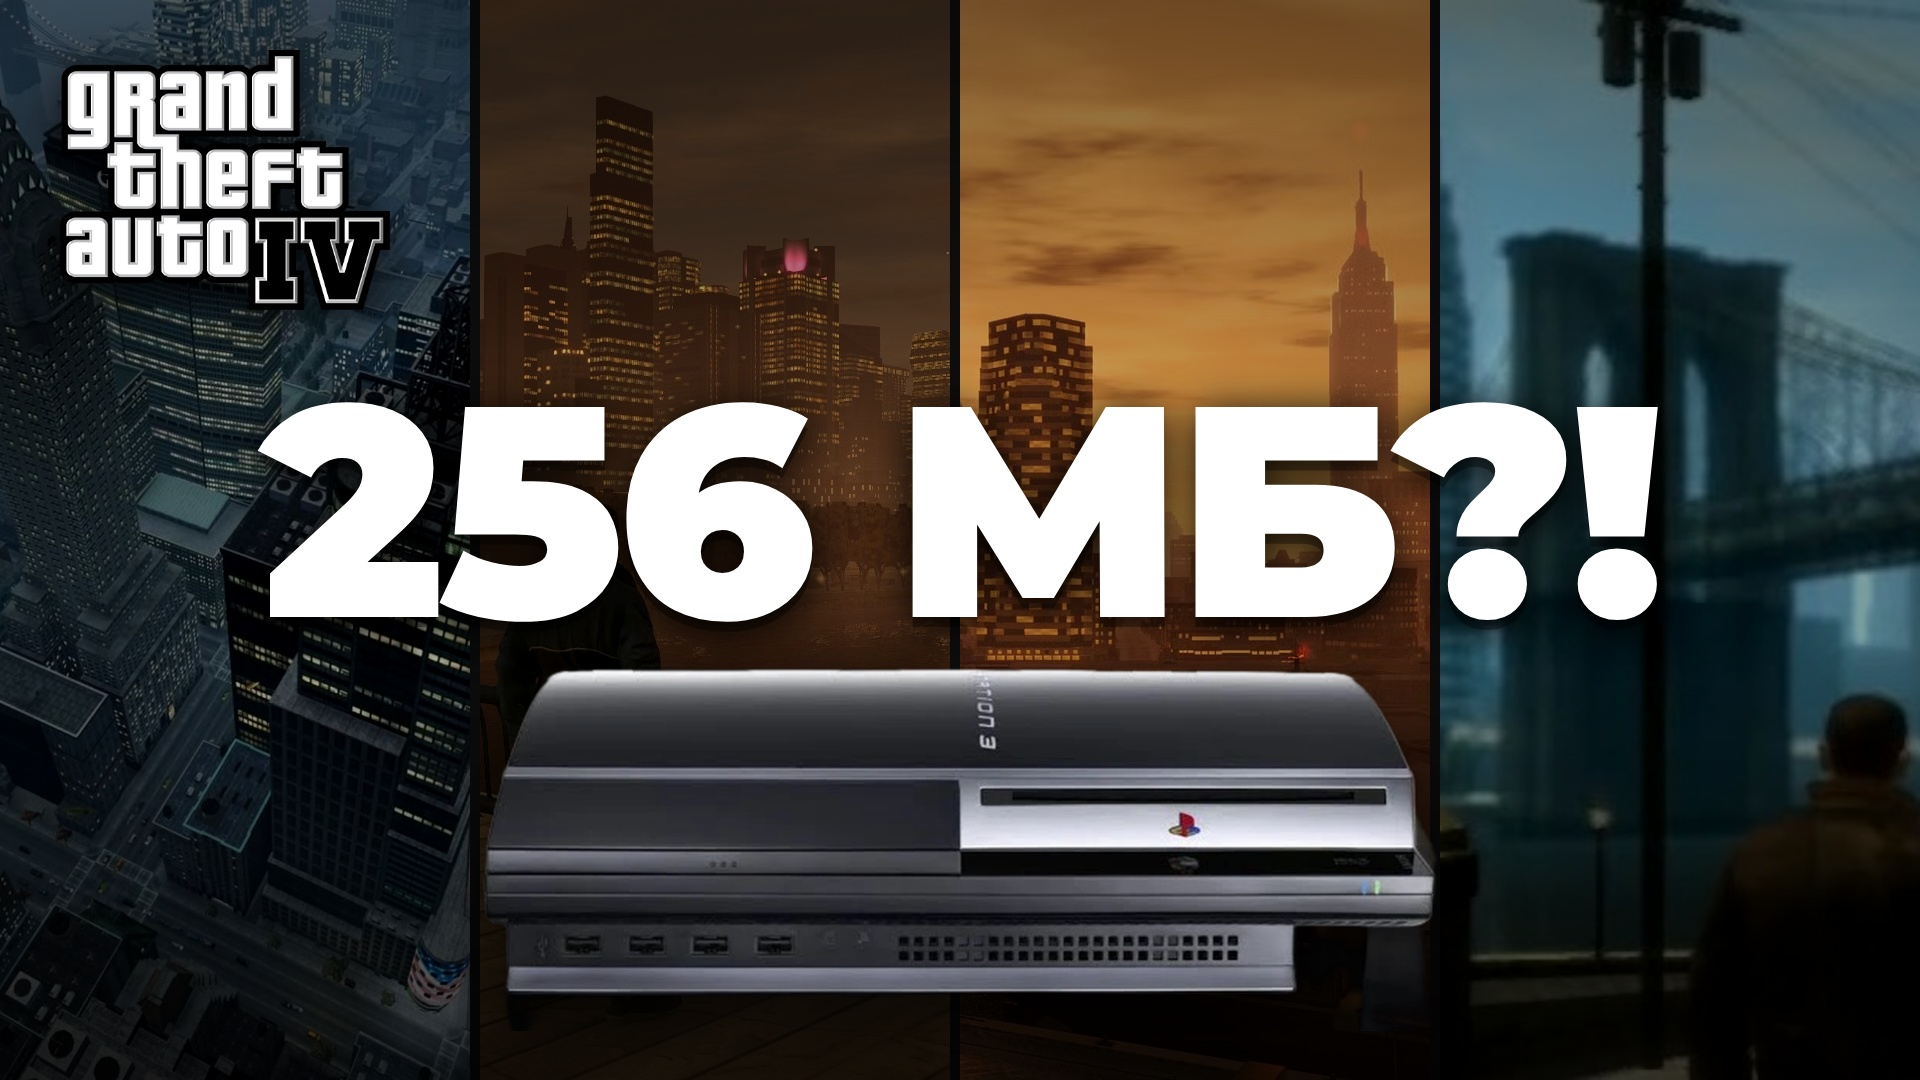
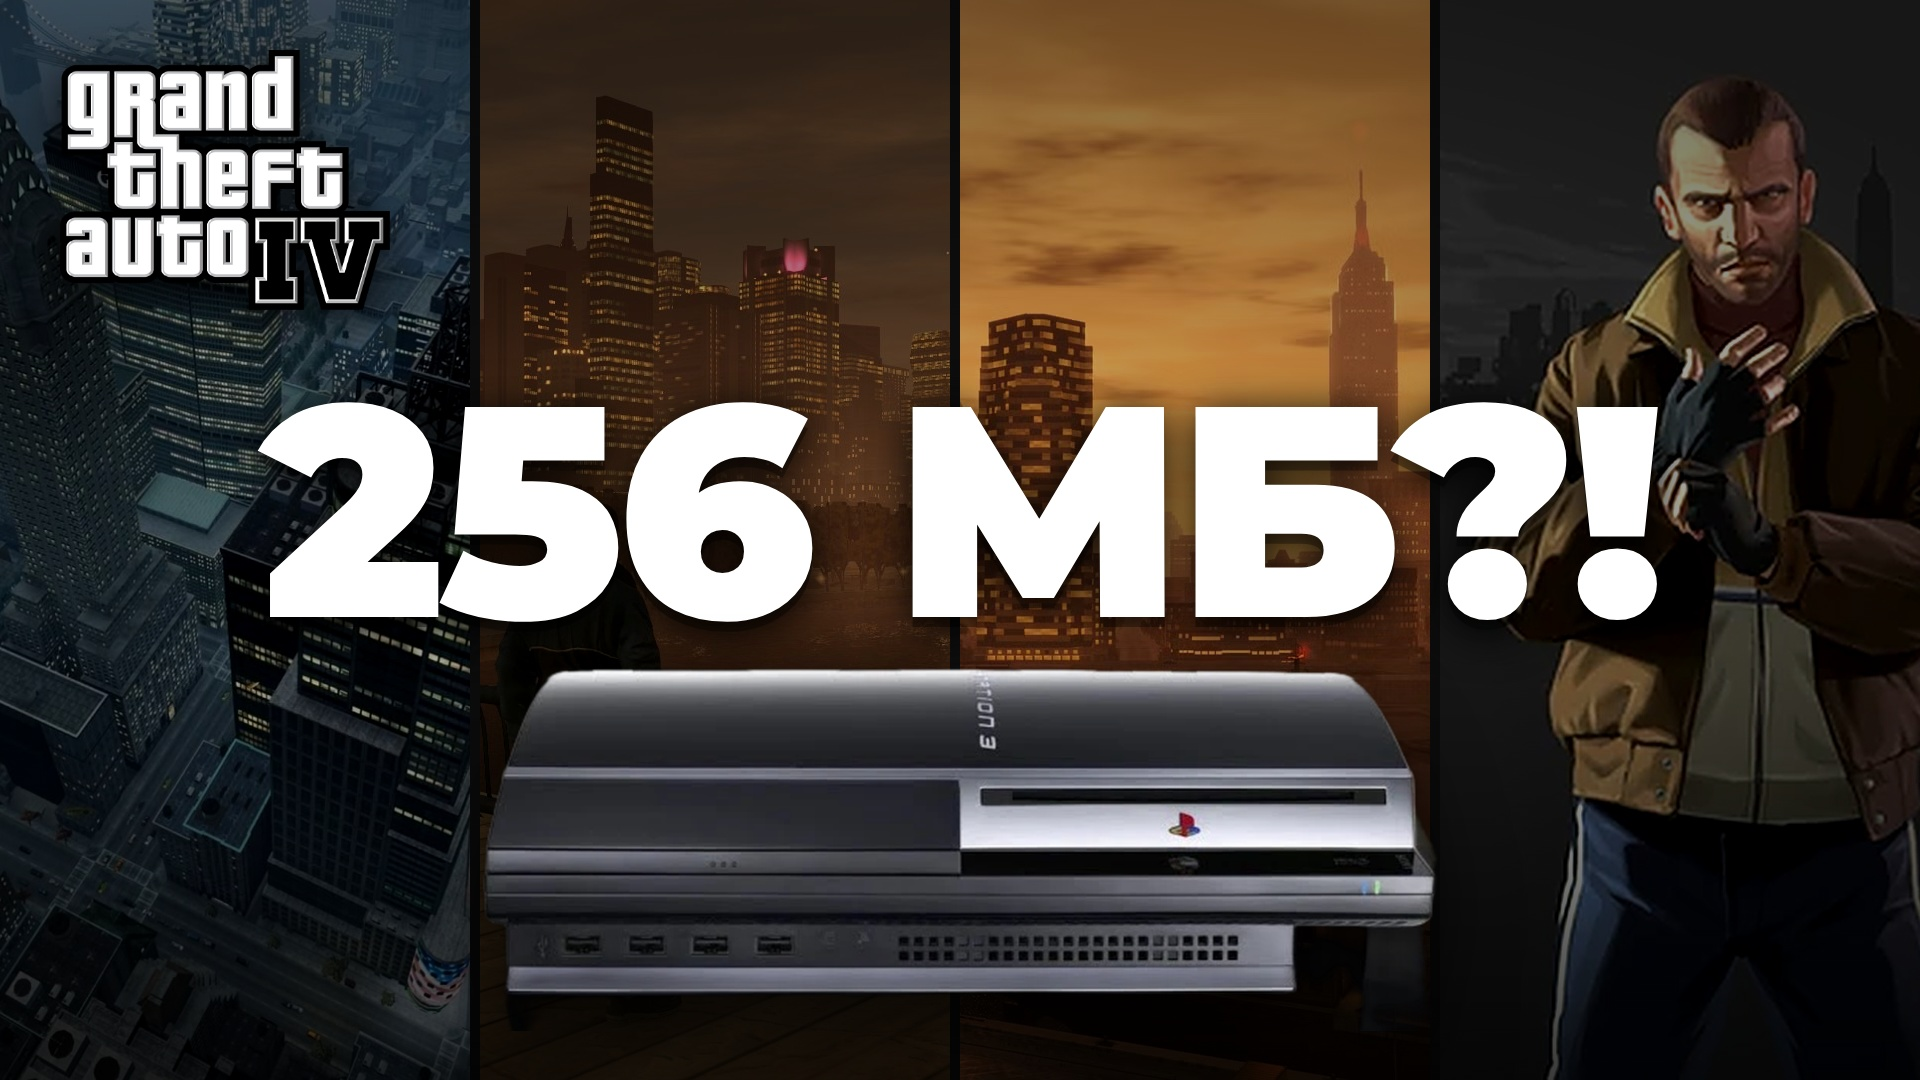
GTA 4 thumbnails: Niko artwork in the right panel
Claude-Session: https://claude.ai/code/session_01RHFrx85Hg5RpkQEmnVQQfw

Changed region(s): [[0.75, 0.0, 1.0, 0.9472], [0.7812, 0.9778, 0.9062, 1.0]]

diff --git a/gta4_ps3/thumb/thumb.html b/gta4_ps3/thumb/thumb.html
@@ -14,7 +14,7 @@ html,body{width:1920px;height:1080px;overflow:hidden;background:#111;font-family
 <div class="p" style="left:0;width:480px"><img src="/gta4_ps3/assets/city_aerial.jpg" style="left:-80px;height:1300px;top:-120px"></div>
 <div class="p" style="left:480px;width:480px"><img src="/gta4_ps3/assets/liberty_city.jpg" style="left:-850px"></div>
 <div class="p" style="left:960px;width:480px"><img src="/gta4_ps3/assets/city_sunset.jpg" style="left:-640px"></div>
-<div class="p" style="left:1440px;width:480px;border:0"><img id="last" src="/gta4_ps3/assets/cmp_x360.jpg" style="left:-170px"></div>
+<div class="p" style="left:1440px;width:480px;border:0"><img id="last" src="/gta4_ps3/assets/niko_art.jpg" style="left:-60px"></div>
 <div class="shade"></div>
 <img class="logo" src="/gta4_ps3/assets/gta4_logo.png" style="left:60px;top:50px;width:330px">
 <div class="t" id="t" style="top:420px;font-size:230px">НЕВОЗМОЖНО</div>
